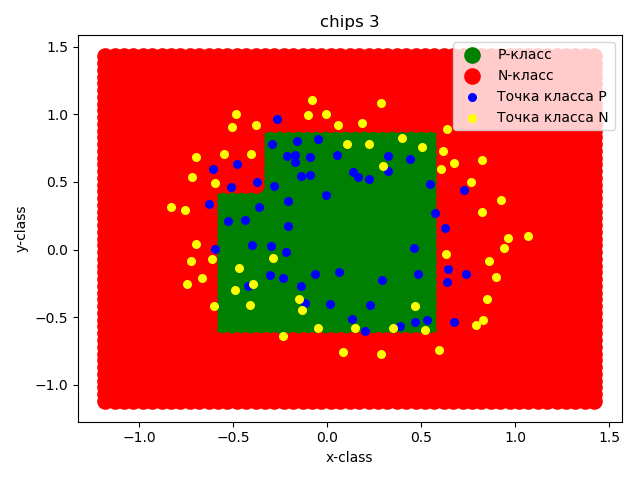
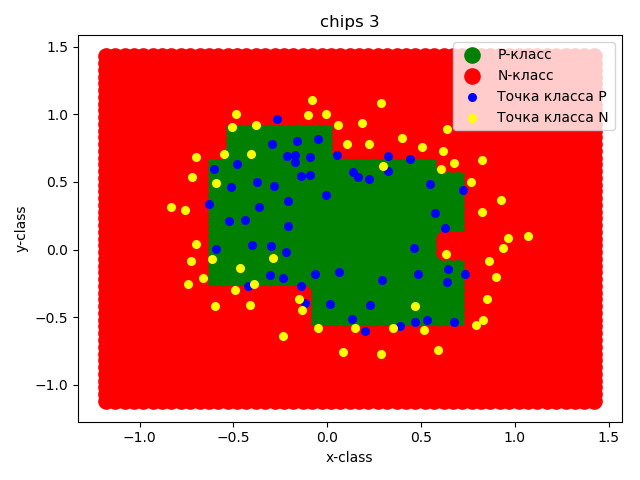
Maybe done

diff --git a/main.py b/main.py
@@ -28,7 +28,7 @@ class AdaBoost:
         self.treeQuantity = treeQuantity
         self.classifiers = []
         self.TREE_DEPTH = 3
-        self.SPLITTER = 'random'
+        self.SPLITTER = 'best'
         self.CRITERION = 'entropy'
         self.objects = objects
         self.classes = list(map(getClass, classes))
@@ -43,7 +43,7 @@ class AdaBoost:
 
     def setClassifiers(self):
         weights = [1 / len(self.classes) for _ in range(len(self.classes))]
-        for t in range(self.treeQuantity):
+        for _ in range(self.treeQuantity):
             curClassifier = DecisionTreeClassifier(criterion=self.CRITERION, splitter=self.SPLITTER,
                                                    max_depth=self.TREE_DEPTH)
             curClassifier.fit(self.objects, self.classes, sample_weight=weights)
